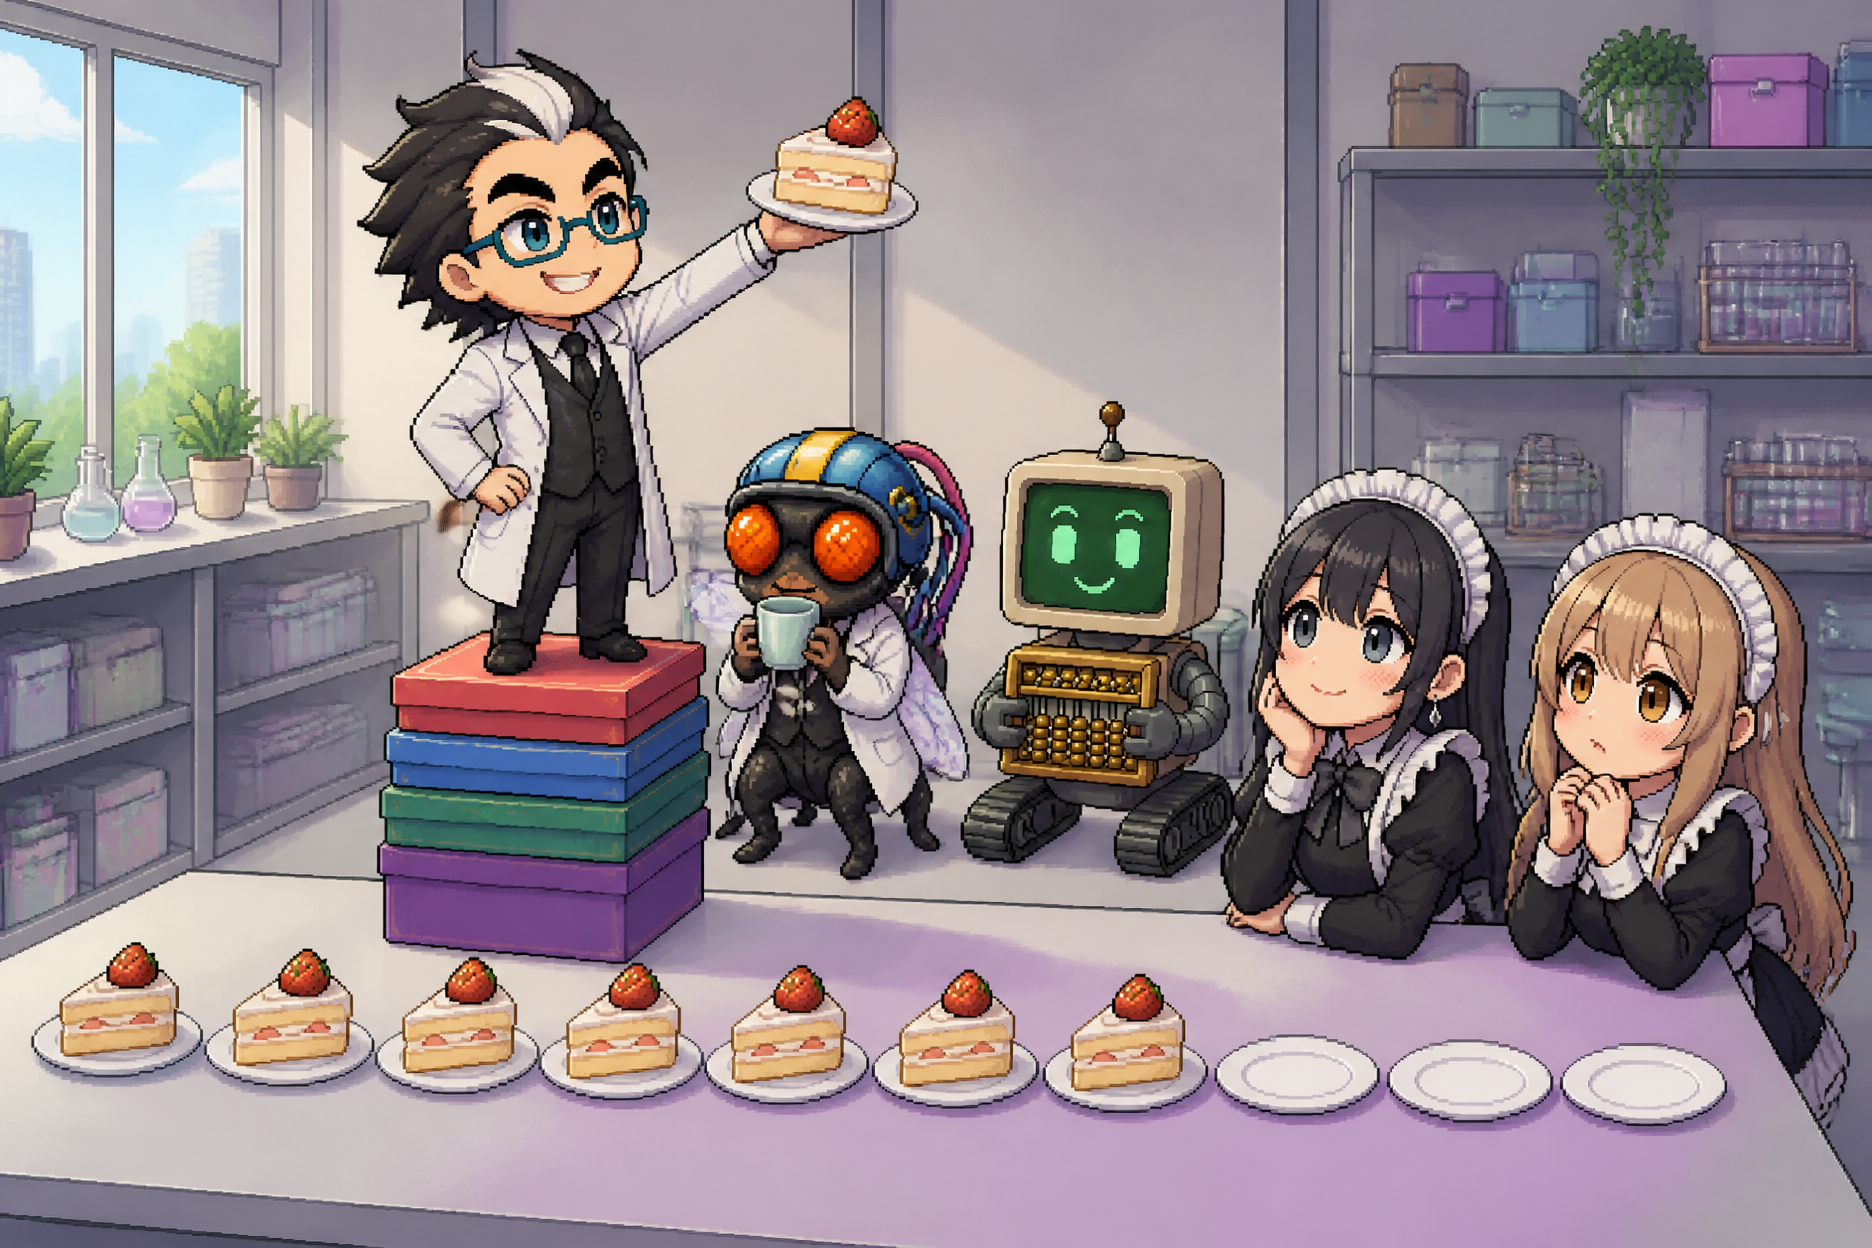
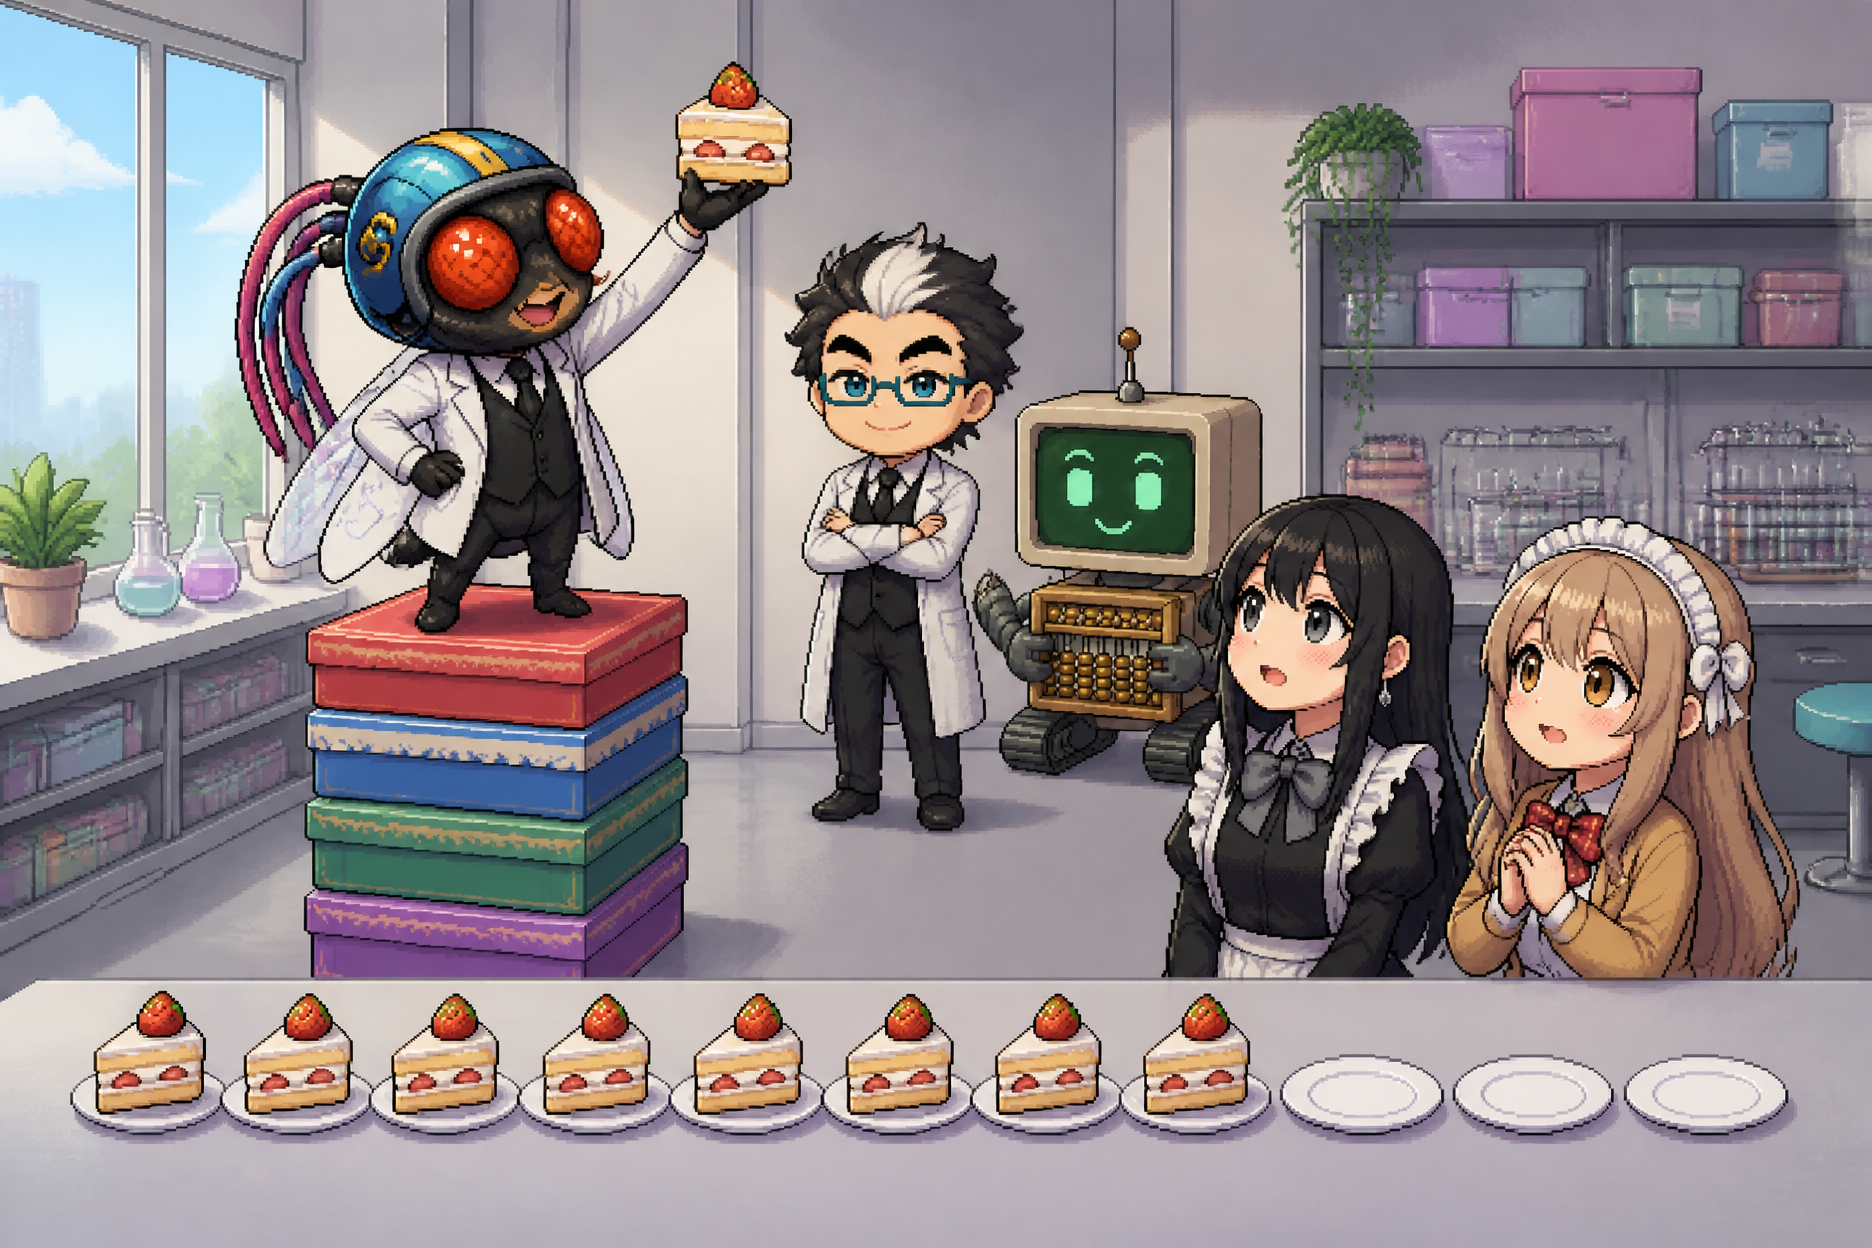
다시 받은 장면 2장 반영 — sc_01_act1(상자 위 초파리) 기본판 히어로·법정판 사건 개요, sc_01_act2(야근 크리티컬) 기본판 2막

diff --git a/build/template.html b/build/template.html
@@ -283,6 +283,8 @@ details.abbr{margin-top:10px;font-size:15px}
 </div>
 </header>
 
+<div class="wrap"><figure class="scene"><img src="assets/img/sc_01_act1.webp" width="1200" height="800" loading="lazy" decoding="async" alt="케이크 상자 네 개를 쌓은 위에서 초파리 연구원이 케이크를 높이 들고 놀리고, 인턴 시아와 모아가 올려다보는 픽셀아트 장면. 앞 탁자에 케이크 접시와 빈 접시가 줄지어 있다"><figcaption>사건의 시작 — 상자 위의 초파리와 케이크를 기다리는 시아·모아</figcaption></figure>
+</div>
 <main>
 <section id="intro"><div class="wrap">
   <div class="box3">
@@ -736,6 +738,7 @@ sum(L)   # 0.4504 → 세로줄 합, 1이 아님</pre>
     <div class="say" data-who="fly"><img class="who flip" data-who="fly" data-mood="point" alt="" aria-hidden="true"><div><b class="name">초파리 연구원</b><p>가능도는 확률이 아니잖아! 그걸로는 나를 판결 못 해!</p></div></div>
     <div class="say" data-who="doc"><img class="who" data-who="doc" data-mood="magic" alt="" aria-hidden="true"><div><b class="name">박사</b><p>맞아요, 잘 배웠네요. 그래서 지원군을 불렀습니다. 평소 기록을 함께 보면 확률로 말할 수 있거든요.</p></div></div>
   </div>
+  <figure class="scene"><img src="assets/img/sc_01_act2.webp" width="1200" height="800" loading="lazy" decoding="async" alt="서류 더미 앞 의자에 앉은 초파리 연구원이 박사의 보라색 파동을 맞고 눈물을 흘리고, 실루엣 증인 셋과 클립보드를 든 하루, 차와 케이크를 든 모아가 있는 픽셀아트 장면"><figcaption>2막: 야근 크리티컬 — 박사와 미공개 X1~X3의 역습</figcaption></figure>
   <div class="ctrl"><button class="bt primary" id="callX" aria-expanded="false" aria-controls="xrow">지원군 부르기</button></div>
   <div class="xrow" id="xrow">
     <div class="xc"><img data-who="x1" data-mood="hint" alt="" aria-hidden="true"><div><b>미공개 X1</b><br><small>(…) 지난달 근무 기록을 내민다 → <b>사전분포</b></small></div></div>

diff --git a/index.html b/index.html
@@ -293,6 +293,8 @@ details.abbr{margin-top:10px;font-size:15px}
 </div>
 </header>
 
+<div class="wrap"><figure class="scene"><img src="assets/img/sc_01_act1.webp" width="1200" height="800" loading="lazy" decoding="async" alt="케이크 상자 네 개를 쌓은 위에서 초파리 연구원이 케이크를 높이 들고 놀리고, 인턴 시아와 모아가 올려다보는 픽셀아트 장면. 앞 탁자에 케이크 접시와 빈 접시가 줄지어 있다"><figcaption>사건의 시작 — 상자 위의 초파리와 케이크를 기다리는 시아·모아</figcaption></figure>
+</div>
 <main>
 <section id="intro"><div class="wrap">
   <div class="box3">
@@ -746,6 +748,7 @@ sum(L)   # 0.4504 → 세로줄 합, 1이 아님</pre>
     <div class="say" data-who="fly"><img class="who flip" data-who="fly" data-mood="point" alt="" aria-hidden="true"><div><b class="name">초파리 연구원</b><p>가능도는 확률이 아니잖아! 그걸로는 나를 판결 못 해!</p></div></div>
     <div class="say" data-who="doc"><img class="who" data-who="doc" data-mood="magic" alt="" aria-hidden="true"><div><b class="name">박사</b><p>맞아요, 잘 배웠네요. 그래서 지원군을 불렀습니다. 평소 기록을 함께 보면 확률로 말할 수 있거든요.</p></div></div>
   </div>
+  <figure class="scene"><img src="assets/img/sc_01_act2.webp" width="1200" height="800" loading="lazy" decoding="async" alt="서류 더미 앞 의자에 앉은 초파리 연구원이 박사의 보라색 파동을 맞고 눈물을 흘리고, 실루엣 증인 셋과 클립보드를 든 하루, 차와 케이크를 든 모아가 있는 픽셀아트 장면"><figcaption>2막: 야근 크리티컬 — 박사와 미공개 X1~X3의 역습</figcaption></figure>
   <div class="ctrl"><button class="bt primary" id="callX" aria-expanded="false" aria-controls="xrow">지원군 부르기</button></div>
   <div class="xrow" id="xrow">
     <div class="xc"><img data-who="x1" data-mood="hint" alt="" aria-hidden="true"><div><b>미공개 X1</b><br><small>(…) 지난달 근무 기록을 내민다 → <b>사전분포</b></small></div></div>

diff --git a/build/template_court.html b/build/template_court.html
@@ -317,6 +317,9 @@ details.abbr{margin-top:10px;font-size:15px}
   </div>
 </div></section>
 
+<div class="wrap"><figure class="scene"><img src="assets/img/sc_01_act1.webp" width="1200" height="800" loading="lazy" decoding="async" alt="케이크 상자 네 개를 쌓은 위에서 초파리 연구원이 케이크를 높이 들고 놀리고, 인턴 시아와 모아가 올려다보는 픽셀아트 장면. 앞 탁자에 케이크 접시와 빈 접시가 줄지어 있다"><figcaption>사건의 시작 — 상자 위의 초파리와 케이크를 기다리는 시아·모아</figcaption></figure>
+</div>
+
 <section id="cast"><div class="wrap">
   <h2>법정 배치와 이 페이지 사용법</h2>
   <div class="cast">

diff --git a/court.html b/court.html
@@ -327,6 +327,9 @@ details.abbr{margin-top:10px;font-size:15px}
   </div>
 </div></section>
 
+<div class="wrap"><figure class="scene"><img src="assets/img/sc_01_act1.webp" width="1200" height="800" loading="lazy" decoding="async" alt="케이크 상자 네 개를 쌓은 위에서 초파리 연구원이 케이크를 높이 들고 놀리고, 인턴 시아와 모아가 올려다보는 픽셀아트 장면. 앞 탁자에 케이크 접시와 빈 접시가 줄지어 있다"><figcaption>사건의 시작 — 상자 위의 초파리와 케이크를 기다리는 시아·모아</figcaption></figure>
+</div>
+
 <section id="cast"><div class="wrap">
   <h2>법정 배치와 이 페이지 사용법</h2>
   <div class="cast">

diff --git a/docs/GENSPARK_01_likelihood_vs_probability.md b/docs/GENSPARK_01_likelihood_vs_probability.md
@@ -163,8 +163,8 @@ No text, no letters, no numbers, no logos, no speech bubbles, no weapons, no rea
 | `sc_01_duel` | 통과 | 기본판 대결 |
 | `sc_01b_trial` | 통과 | 법정판 ③ 증언 흔들기 |
 | `sc_01b_act2` | 통과 | 법정판 ⑤ 2막 |
-| `sc_01_act1` | **다시** — 케이크를 든 사람이 초파리가 아니라 박사 | 보류 |
-| `sc_01_act2` | **다시** — 야근 데미지를 받는 사람이 초파리가 아니라 하루, 초파리가 없음 | 보류 |
+| `sc_01_act1` | 다시 받아 통과 (케이크 조각 8개·빈 접시 3개로 데이터 7/10과 1개 다름) | 기본판 히어로 아래, 법정판 사건 개요 아래 |
+| `sc_01_act2` | 다시 받아 통과 | 기본판 ⑤ 2막 |
 
 ## 고쳐 받기 — `sc_01_act1` (받은 그림을 첨부하고 같은 대화에서)
 ```
